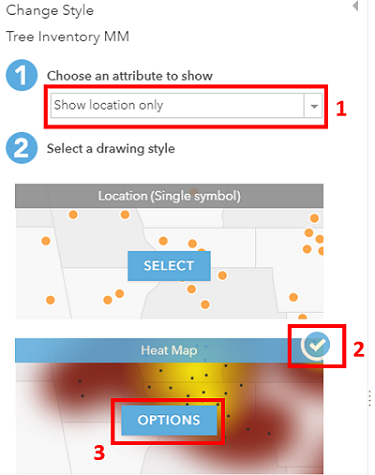
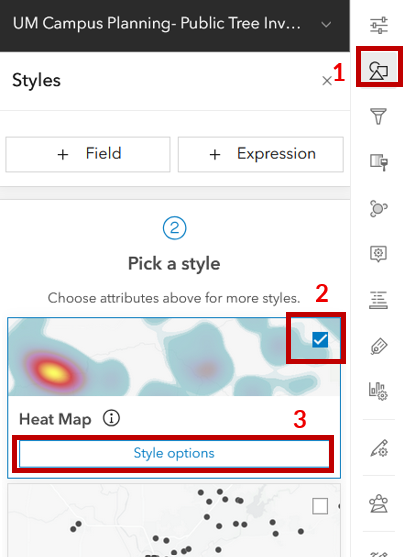
update images

diff --git a/content/classes/GEOG2200/content/analyze.md b/content/classes/GEOG2200/content/analyze.md
@@ -17,7 +17,7 @@ nav_order: 3
 ## 0. **Summary**:  
 In this step we will be creating three (3) different type of maps, and an additional feature layer to support our story.  
 
-- Genus Map  
+- Species Map  
 - Heat map  
 - Proportional symbology  
 - Summary Statistics 
@@ -89,30 +89,30 @@ Anishinaabeg: {Anishinaabeg}`
 ![AGOL workspace](img/analyze/step2j.png)<br> 
 
 7. Don't forget to **Save** your edits. 
+8. Return to your **personal content** page.
  
  
-## 3. Create a **heat map** to show distribution.  
+## 3. Create a **Heat map** to show distribution around campus.  
 
-1. Click the  dropdown arrow beside the **Open in Map Viewer Classic** option at the top of the list of options on the right side of your feature service window.  
-2. Select the **add to new map** option. The data may take a couple of seconds to load.  
-![AGOL workspace](img/analyze/step3a.PNG)<br>  
+1. Select the **Heat Map** you have created from the template.  
+2. On the details page that opens, select the **Open in Map Viewer** option to open our map.  
+3. In the Table of Contents ensure that the __Space Inventory__ layer is hidden and the __Tree Inventory__ is selected.  
+![AGOL workspace](img/analyze/step2c.PNG)<br>  
 
-3. The style options should open automatically in your Table of Contents.  
-    1. _Choose an attribute to show_: **Show location only**  
-    2. _Drawing style_: **Heat Map**  
-    3. Select **options** for _Heat Map_  
+4. Select the **Styles** toolbar at the right side of the screen. 
+5. The style options for trees should open automatically on the right side of your screen.  
+    1. _Drawing style_: **Heat Map**  
+    2. Explore **options** for _Heat Map_  
 ![AGOL workspace](img/analyze/step3b.PNG)<br>  
      
-3. In the Symbology options that open select the small icon on the right and select a colour ramp that works for you.  
+    3. In the Heat Map options that open select a colour ramp that works for you.  
 ![AGOL workspace](img/analyze/step3c.PNG)<br>  
  
-4. Click _OK_ and then _Done_ at the bottom of the Table of Contents. Your map should look something like:  
+6.  Your map should look something like:  
 ![AGOL workspace](img/analyze/step3d.PNG)<br>  
 
-5. **Save** a copy of the map to your personal content area by selecting the **Save As** option. Call it something meaningful and be sure to add your initials to the end of the filename.  
-![AGOL workspace](img/analyze/step3e.PNG)<br>  
-
-6. Return to your **personal content** page.  
+7. Don't forget to **Save** your edits. 
+8. Return to your **personal content** page.  
 
 
 ## 4. Save copies of other workshop maps shared in **My Groups** to your personal content:  
